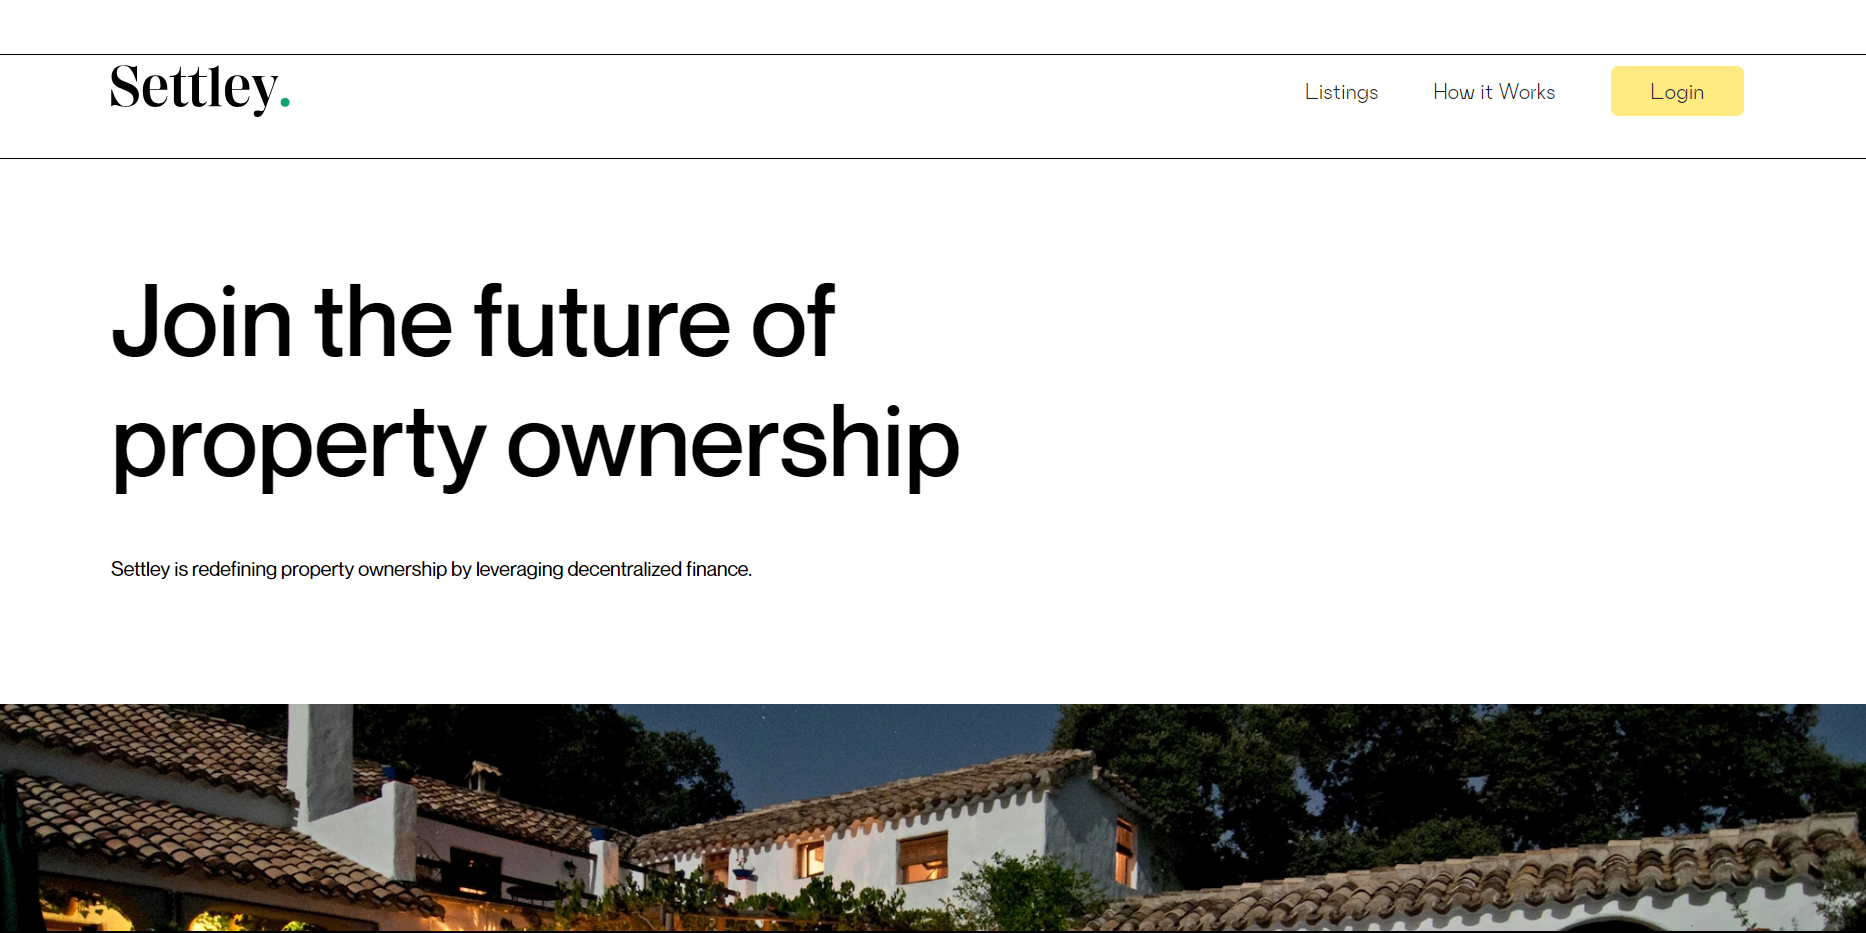
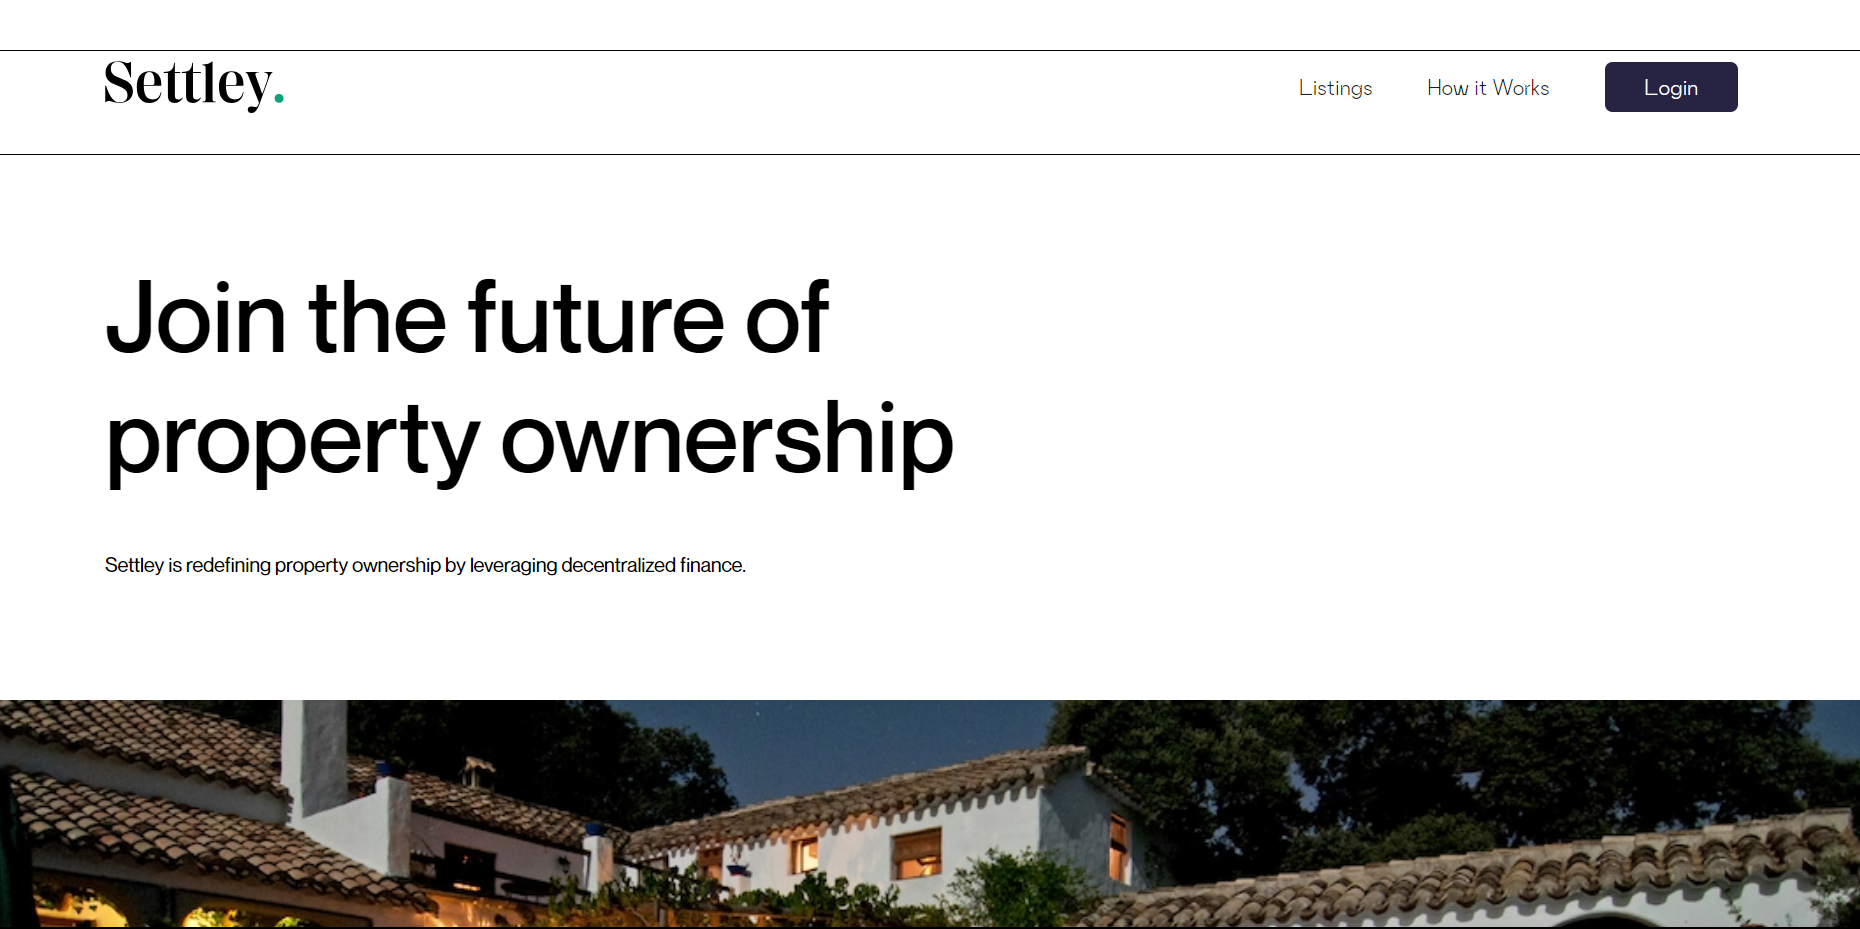
fix: link colour, og image

diff --git a/dapp/src/components/Navbar/MobileMenu.tsx b/dapp/src/components/Navbar/MobileMenu.tsx
@@ -53,7 +53,7 @@ export default function MobileMenu({ close }: Props) {
         <div className='bg-medium-grey h-[0.5px] w-full' />
         {isLoggedIn && (
           <Link
-            className='text-navy bg-yellow/50 rounded-[6px] py-2 px-8 flex gap-2 font-semibold items-center w-fit'
+            className='text-white bg-navy rounded-[6px] py-2 px-8 flex gap-2 font-semibold items-center'
             href='/profile'
           >
             <VscAccount />
@@ -62,7 +62,7 @@ export default function MobileMenu({ close }: Props) {
         )}
         {!isLoggedIn && (
           <Link
-            className='text-navy bg-yellow/50 rounded-[6px] py-2 px-8 flex gap-2 font-semibold items-center w-fit'
+            className='text-white bg-navy rounded-[6px] py-2 px-8 flex gap-2 font-semibold items-center'
             href='/login'
           >
             Login

diff --git a/dapp/src/app/layout.tsx b/dapp/src/app/layout.tsx
@@ -24,9 +24,9 @@ export const metadata: Metadata = {
   icons: {
     icon: '/favicon/favicon.ico',
     shortcut: '/favicon/favicon-16x16.png',
-    apple: '/favicon/apple-icon-72x72.png',
+    apple: '/favicon/apple-touch-icon.png',
   },
-  manifest: `/favicon/webmanifest.json`,
+  manifest: `/favicon/site.webmanifest`,
   openGraph: {
     url: siteConfig.url,
     title: siteConfig.title,
